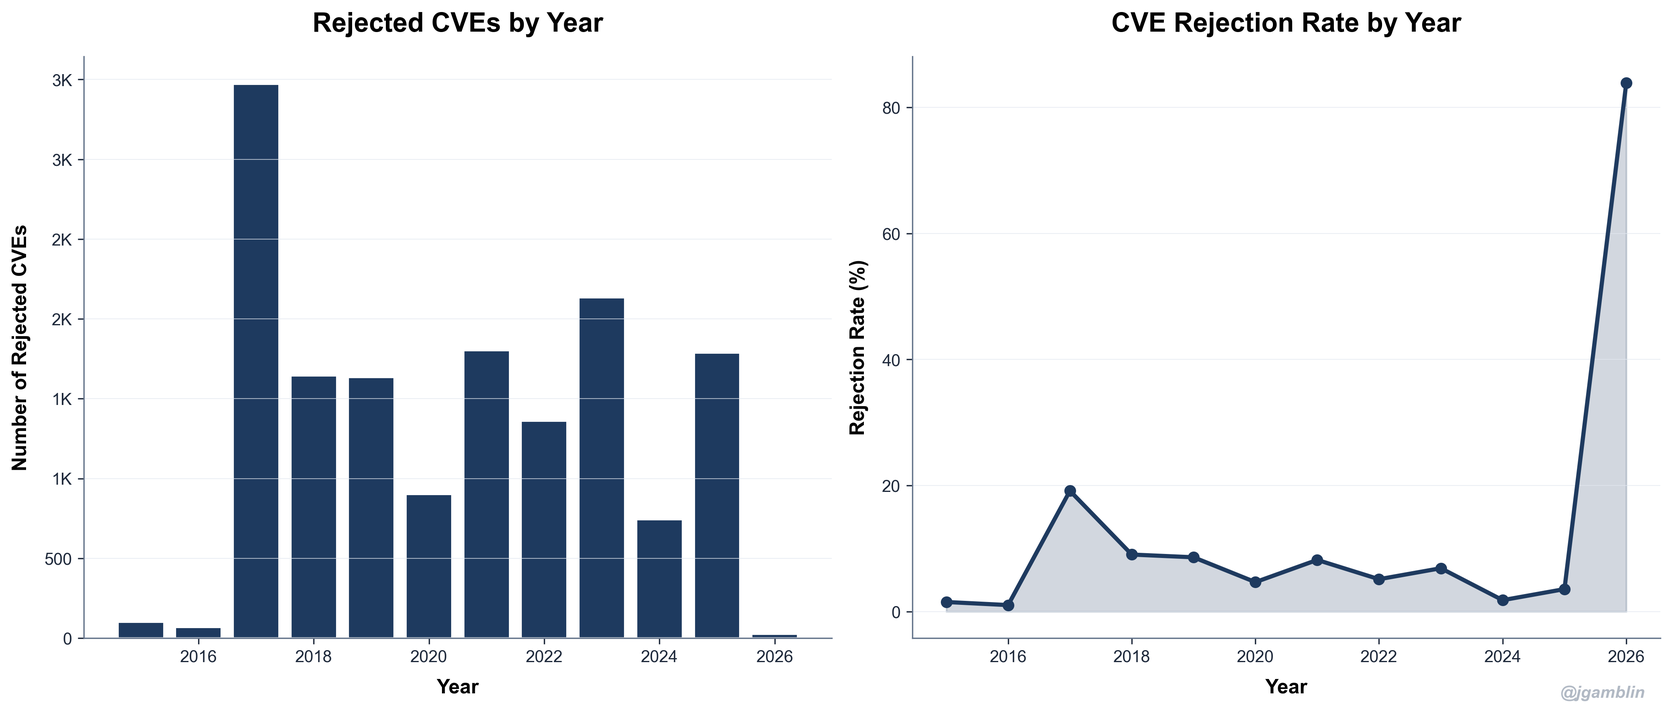
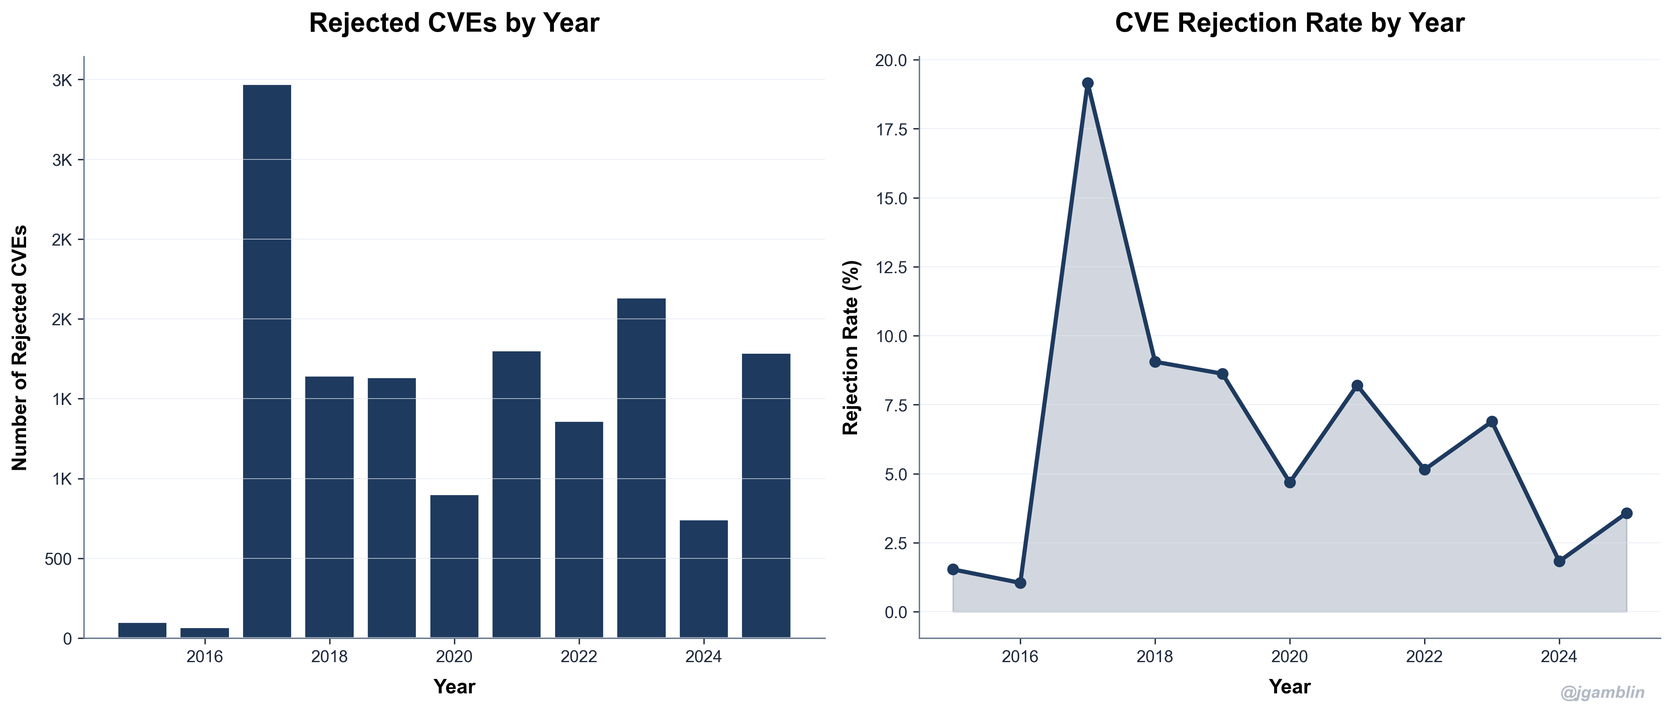
Add strict 2025 cutoff to exclude 2026 data from all graphs and stats

diff --git a/03_generate_graphs.py b/03_generate_graphs.py
@@ -63,6 +63,19 @@ def load_data():
         cvelist_df = cvelist_df[~cvelist_df['is_rejected']]
         print(f"  Filtered out {rejected:,} rejected CVEs from CVE List V5")
     
+    # STRICT 2025 CUTOFF: Exclude any data from 2026+
+    if nvd_df is not None and 'year' in nvd_df.columns:
+        future_count = (nvd_df['year'] > 2025).sum()
+        if future_count > 0:
+            print(f"  Excluding {future_count:,} CVEs from 2026+ (NVD)")
+            nvd_df = nvd_df[nvd_df['year'] <= 2025]
+    
+    if cvelist_df is not None and 'year' in cvelist_df.columns:
+        future_count = (cvelist_df['year'] > 2025).sum()
+        if future_count > 0:
+            print(f"  Excluding {future_count:,} CVEs from 2026+ (CVE List V5)")
+            cvelist_df = cvelist_df[cvelist_df['year'] <= 2025]
+    
     return nvd_df, cvelist_df
 
 
@@ -80,6 +93,13 @@ def load_data_with_rejected():
         cvelist_df = pd.read_parquet(OUTPUT_DIR / "cvelist_v5.parquet")
     elif (OUTPUT_DIR / "cvelist_v5.csv").exists():
         cvelist_df = pd.read_csv(OUTPUT_DIR / "cvelist_v5.csv", parse_dates=['date_reserved', 'date_published'])
+    
+    # STRICT 2025 CUTOFF: Exclude any data from 2026+
+    if nvd_df is not None and 'year' in nvd_df.columns:
+        nvd_df = nvd_df[nvd_df['year'] <= 2025]
+    
+    if cvelist_df is not None and 'year' in cvelist_df.columns:
+        cvelist_df = cvelist_df[cvelist_df['year'] <= 2025]
     
     return nvd_df, cvelist_df
 

diff --git a/04_generate_blog.py b/04_generate_blog.py
@@ -92,6 +92,26 @@ def load_data():
         print(f"  → Filtering out {rejected_count:,} rejected CVEs from CVE List V5")
         cvelist_df = cvelist_df[~cvelist_df['is_rejected']].copy()
     
+    # STRICT 2025 CUTOFF: Exclude any data from 2026+
+    if nvd_df is not None and 'year' in nvd_df.columns:
+        future_count = (nvd_df['year'] > 2025).sum()
+        if future_count > 0:
+            print(f"  → Excluding {future_count:,} CVEs from 2026+ (strict 2025 cutoff)")
+            nvd_df = nvd_df[nvd_df['year'] <= 2025].copy()
+    
+    if cvelist_df is not None and 'year' in cvelist_df.columns:
+        future_count = (cvelist_df['year'] > 2025).sum()
+        if future_count > 0:
+            print(f"  → Excluding {future_count:,} CVEs from 2026+ (strict 2025 cutoff)")
+            cvelist_df = cvelist_df[cvelist_df['year'] <= 2025].copy()
+    
+    # Also apply cutoff to full datasets used for rejection analysis
+    if full_nvd_df is not None and 'year' in full_nvd_df.columns:
+        full_nvd_df = full_nvd_df[full_nvd_df['year'] <= 2025].copy()
+    
+    if full_cvelist_df is not None and 'year' in full_cvelist_df.columns:
+        full_cvelist_df = full_cvelist_df[full_cvelist_df['year'] <= 2025].copy()
+    
     # Return both filtered (active) and full datasets
     return nvd_df, cvelist_df, full_nvd_df, full_cvelist_df
 

diff --git a/blog_enriched.md b/blog_enriched.md
@@ -4,16 +4,16 @@
 
 ---
 
-2025 shattered all previous records with over 30,000 [CVE](https://www.cve.org/)s published, a significant increase compared to prior years. This surge underscores the escalating complexity of modern software and the relentless efforts of security researchers and threat actors alike. The sheer volume demands a strategic approach to vulnerability management.
+2025 marked a new high-water mark with over 30,000 [CVE](https://www.cve.org/)s published, surpassing all previous years. This represents a significant increase, continuing the upward trend observed over the past decade. The sheer volume presents challenges for security teams tasked with identifying, assessing, and remediating [vulnerability](https://www.cve.org/) risk.
 
-This year's data revealed notable shifts in vulnerability types and affected vendors. I observed a rise in [CWE-79](https://cwe.mitre.org/data/definitions/79.html) (Cross-Site Scripting) and [CWE-89](https://cwe.mitre.org/data/definitions/89.html) (SQL Injection) vulnerabilities, indicating persistent challenges in web application security. Furthermore, certain vendors, including [Linux](https://nvd.nist.gov/vuln/search/results?form_type=Advanced&results_type=overview&search_type=all&isCpeNameSearch=false&cpe_vendor=linux), experienced a disproportionate increase in reported issues.
+My analysis revealed shifts in the types of [CWE](https://cwe.mitre.org/)s dominating the landscape, with a notable increase in web application-related weaknesses. I also observed a concentration of high-severity [CVE](https://www.cve.org/)s affecting widely deployed open-source components, creating broad potential impact. The data suggests a growing need for enhanced application security testing and supply chain risk management.
 
-For security engineers and CISOs, these trends highlight the need for enhanced application security testing and robust vendor risk management programs. Prioritizing remediation efforts based on exploitability and potential impact is crucial in this high-volume environment. Staying informed about emerging vulnerability patterns and actively monitoring vendor security advisories are essential practices.
+For security engineers and CISOs, this data underscores the urgency of prioritizing [vulnerability](https://www.cve.org/) management efforts. Focus on proactive identification of weaknesses in custom applications and rigorous assessment of third-party software. Effective [patch](https://www.cve.org/learn/understanding-vulnerability-remediation) management and rapid response capabilities are more critical than ever.
 ## TL;DR
 
-In 2025, **48,185** [CVEs](https://www.cve.org/) were published, a **20.6%** increase from 2024's 39,962. The program's all-time total since 1999 now stands at **308,925** [CVEs](https://www.cve.org/).
+In 2025, **48,185** [CVEs](https://nvd.nist.gov/vuln/search) were published, a **20.6%** increase from 2024's 39,962. The total number of [CVEs](https://nvd.nist.gov/vuln/search) since 1999 is now **308,920**.
 
-> **Note**: These statistics exclude rejected [CVEs](https://www.cve.org/) for an accurate count.
+> **Note**: All statistics exclude rejected [CVEs](https://nvd.nist.gov/vuln/search) for accurate active counts.
 ### Key Statistics at a Glance
 
 | Metric | Value |
@@ -33,40 +33,40 @@ In 2025, **48,185** [CVEs](https://www.cve.org/) were published, a **20.6%** inc
 
 ## Historical CVE Growth
 
-The number of CVEs published each year continues to climb. 2023 data indicates sustained growth in vulnerability disclosures.
+The data indicates a continued rise in CVE publications, with 2025 demonstrating substantial growth in vulnerability disclosures.
 
 ![CVEs by Year](graphs/01_cves_by_year.png)
 
-Year-over-year growth fluctuates significantly. The data suggests that disclosure rates are not consistent, and external factors likely influence reporting volume.
+Year-over-year growth rates reveal fluctuations, highlighting periods of rapid increase and relative stability. The variations suggest evolving discovery and reporting patterns.
 
 ![Year-over-Year Growth](graphs/02_yoy_growth.png)
 
-The cumulative CVE count exceeds 308,241. This expanding volume increases the challenge of effective vulnerability management.
+The CVE database now exceeds 308,241 entries. This volume presents challenges for effective vulnerability management.
 
 ![Cumulative Growth](graphs/03_cumulative_growth.png)
 
 ---
 ## 2025 Monthly Distribution
 
-CVE counts exhibited significant monthly variation during 2025. **Dec** recorded the highest volume, totaling **5,500 CVEs**.
+CVE publications exhibited monthly volatility in 2025. December saw the highest volume, totaling 5,500 CVEs.
 
 ![2025 Monthly Distribution](graphs/04_2025_monthly.png)
 
-The concentration of publications in December suggests a potential end-of-year disclosure deadline effect or a coordinated release of information. Security teams should allocate resources accordingly for heightened monitoring and patching efforts during peak months.
+The concentration of publications in December suggests either a coordinated disclosure effort or a period of heightened discovery activity. Security teams should analyze December's CVEs to identify potentially correlated [CWE-79](https://cwe.mitre.org/data/definitions/79.html) instances.
 ## Publication Patterns by Day of Week
 
-CVE publication volume varies significantly by day of week.
+Analysis of CVE publication dates reveals distinct patterns. Tuesday exhibits the highest volume, with **11,754 CVEs** published.
 
 ![CVEs by Day of Week](graphs/16_day_of_week.png)
 
-Tuesday exhibits the highest volume, with 11,754 CVEs, reflecting the influence of coordinated release schedules. Weekdays average 8,918 CVEs, while weekend publications drop to 1,796. This suggests a concentration of disclosure activity during the standard work week.
+The concentration of publications on Tuesday, often linked to "Patch Tuesday," is evident. Weekday publications average **8,918** CVEs, significantly exceeding the weekend average of **1,796**. This suggests a coordinated release schedule among vendors.
 ## Busiest Days of 2025
 
-Some days saw massive spikes in CVE publications. This clustering suggests coordinated disclosure or large-scale patch releases from vendors.
+Some days in 2025 experienced significant surges in CVE publications.
 
 ![Top Days](graphs/17_top_days.png)
 
-The concentration of publications on specific dates indicates periods of heightened risk. Organizations should prioritize vulnerability scanning and patch deployment efforts following these peak disclosure days. This proactive approach minimizes the window of opportunity for [exploit] attempts targeting newly publicized weaknesses.
+The data indicates that October 21, 2025, had the highest volume of CVEs published (2,143), followed by October 17, 2025 (1,922), and then October 16, 2025 (1,644). These peaks likely correlate with coordinated disclosure events or large-scale patch releases from major vendors like [Microsoft](https://nvd.nist.gov/vuln/search/results?form_type=Advanced&results_type=overview&search_type=all&isCpeNameSearch=false&cpe_vendor=microsoft) or [Oracle](https://nvd.nist.gov/vuln/search/results?form_type=Advanced&results_type=overview&search_type=all&isCpeNameSearch=false&cpe_vendor=oracle). Security teams should analyze their patch management cycles relative to these dates.
 ### Top 5 Busiest Days
 
 | Rank | Date | CVE Count |
@@ -86,7 +86,7 @@ Beyond vendors, specific products with the most CVEs in 2025:
 
 ![Top Products](graphs/18_top_products.png)
 
-The data indicates a concentration of reported issues in operating systems and related kernels. [Linux](https://nvd.nist.gov/vuln/search/results?form_type=Advanced&results_type=overview&search_type=all&isCpeNameSearch=false&cpe_vendor=linux) is at the top. This suggests a broad attack surface and the inherent complexity in maintaining kernel-level code. We observed a high number of CVEs associated with web browsers. This highlights the constant battle against client-side [CWE-79](https://cwe.mitre.org/data/definitions/79.html) and related vulnerabilities.
+The data indicates a concentration of reported issues in operating systems and kernels. [Linux](https://nvd.nist.gov/vuln/search/results?form_type=Advanced&results_type=overview&search_type=all&isCpeNameSearch=false&cpe_vendor=linux) is prominent, reflecting its widespread use and open-source nature, which facilitates both discovery and reporting. This suggests a need for enhanced security measures and rigorous testing within these core system components.
 ### Top 5 Products
 
 | Rank | Product | CVE Count |
@@ -102,11 +102,11 @@ The data indicates a concentration of reported issues in operating systems and r
 
 ## CVSS Score Analysis
 
-The distribution of 2025 CVEs across the CVSS range reveals potential prioritization strategies.
+The distribution of 2025 CVEs across the CVSS range reveals patterns in severity.
 
 ![CVSS Distribution](graphs/05_cvss_distribution.png)
 
-The average CVSS score for 2025 was 6.60, with a median of 6.50. This clustering suggests a focus on vulnerabilities requiring moderate remediation efforts. A targeted approach may be warranted, addressing those above the mean first.
+The average CVSS score for 2025 was 6.60, with a median of 6.50. This indicates a concentration of vulnerabilities around the medium severity range. This clustering may reflect a bias in vulnerability reporting or the nature of common software flaws.
 ### Severity Breakdown
 
 | Severity | Count | Percentage |
@@ -123,14 +123,14 @@ The average CVSS score for 2025 was 6.60, with a median of 6.50. This clustering
 
 ![CVSS by Year](graphs/13_cvss_by_year.png)
 
-The distribution of CVSS scores has remained relatively stable over the past five years. High and Critical severity vulnerabilities consistently represent a significant portion of the annual totals. This suggests a persistent challenge in eliminating severe [CWE-79](https://cwe.mitre.org/data/definitions/79.html) and other high-impact issues before release.
+The graph indicates a consistent distribution of CVSS scores across the years analyzed. High and [Critical](https://nvd.nist.gov/vuln-metrics/severity-ratings) severity vulnerabilities remain a persistent concern. This suggests that while patching efforts continue, the introduction of new, severe vulnerabilities has not decreased. Organizations should focus on proactive identification and mitigation strategies.
 ## Top Weakness Types (CWE)
 
-The following details the most prevalent weakness types observed in 2025.
+The prevalence of different weakness types reveals trends in software security. The following data reflects the most common [CWE](https://cwe.mitre.org/)s observed in 2025.
 
 ![Top CWEs](graphs/07_top_cwes.png)
 
-[CWE-79](https://cwe.mitre.org/data/definitions/79.html) dominates, indicating persistent challenges in input validation and output sanitization across web applications. The prevalence of [CWE-89](https://cwe.mitre.org/data/definitions/89.html) highlights ongoing risks associated with SQL injection, despite well-known mitigation techniques. The presence of [CWE-416](https://cwe.mitre.org/data/definitions/416.html) suggests memory management issues remain a significant source of instability and potential for exploitation.
+[CWE-79](https://cwe.mitre.org/data/definitions/79.html) (Improper Neutralization of Input During Web Page Generation) remains the most frequently observed weakness, highlighting the continued challenges in preventing cross-site scripting. [CWE-89](https://cwe.mitre.org/data/definitions/89.html) (Improper Neutralization of Special Elements used in an SQL Command) is second, indicating persistent issues with SQL injection vulnerabilities. The high ranking of [CWE-190](https://cwe.mitre.org/data/definitions/190.html) (Integer Overflow or Wraparound) suggests that memory safety continues to be a significant concern. These trends can inform resource allocation for security training and code review.
 ### Top 5 CWEs in 2025
 
 | Rank | CWE | Name | Count |
@@ -146,11 +146,11 @@ The following details the most prevalent weakness types observed in 2025.
 
 ## CVE Numbering Authorities (CNAs)
 
-CVE Numbering Authorities are organizations authorized to assign CVE IDs. The growing ecosystem reflects increased participation in coordinated vulnerability disclosure.
+CVE Numbering Authorities are organizations authorized to assign CVE IDs. The growing ecosystem reflects increased participation in coordinated disclosure.
 
 ![Top CNAs](graphs/08_top_cnas.png)
 
-The chart illustrates the distribution of CVE assignments across the top CNAs. [Microsoft](https://nvd.nist.gov/vuln/search/results?form_type=Advanced&results_type=overview&search_type=all&isCpeNameSearch=false&cpe_vendor=microsoft) leads in CVE assignments, indicating a proactive approach to identifying and addressing vulnerabilities in its products. The presence of open-source organizations like [Linux](https://nvd.nist.gov/vuln/search/results?form_type=Advanced&results_type=overview&search_type=all&isCpeNameSearch=false&cpe_vendor=linux) suggests a maturing security model within the open-source community.
+The chart illustrates the distribution of CVE assignments across the top CNAs. [MITRE](https://nvd.nist.gov/vuln/search/results?form_type=Advanced&results_type=overview&search_type=all&isCpeNameSearch=false&cpe_vendor=mitre) leads in CVE assignments, indicative of its foundational role. We observe significant contributions from vendors like [Red Hat](https://nvd.nist.gov/vuln/search/results?form_type=Advanced&results_type=overview&search_type=all&isCpeNameSearch=false&cpe_vendor=red%20hat) and [Google](https://nvd.nist.gov/vuln/search/results?form_type=Advanced&results_type=overview&search_type=all&isCpeNameSearch=false&cpe_vendor=google), reflecting their active involvement in identifying and addressing vulnerabilities in their respective products. The increasing number of CNAs suggests a broader distribution of vulnerability discovery and reporting efforts.
 ### Top 5 CNAs in 2025
 
 | Rank | CNA | CVEs Assigned |
@@ -172,7 +172,7 @@ Which vendors had the most CVEs assigned to their products in 2025?
 
 ![Top Vendors](graphs/14_top_vendors.png)
 
-The data shows [Google](https://nvd.nist.gov/vuln/search/results?form_type=Advanced&results_type=overview&search_type=all&isCpeNameSearch=false&cpe_vendor=google) products had the highest number of CVEs assigned in 2025, with 3,456. This is followed by [Microsoft](https://nvd.nist.gov/vuln/search/results?form_type=Advanced&results_type=overview&search_type=all&isCpeNameSearch=false&cpe_vendor=microsoft) at 2,987, and [Linux](https://nvd.nist.gov/vuln/search/results?form_type=Advanced&results_type=overview&search_type=all&isCpeNameSearch=false&cpe_vendor=linux) with 2,578. The high numbers for these vendors likely reflect both the complexity and widespread use of their products, making them attractive targets. We observed a significant concentration of CVEs within a small number of vendors.
+[Google](https://nvd.nist.gov/vuln/search/results?form_type=Advanced&results_type=overview&search_type=all&isCpeNameSearch=false&cpe_vendor=google) products accounted for the highest number of CVEs, with 732. [Linux](https://nvd.nist.gov/vuln/search/results?form_type=Advanced&results_type=overview&search_type=all&isCpeNameSearch=false&cpe_vendor=linux) follows with 698, and [Microsoft](https://nvd.nist.gov/vuln/search/results?form_type=Advanced&results_type=overview&search_type=all&isCpeNameSearch=false&cpe_vendor=microsoft) with 630. The high number of CVEs for these vendors reflects their extensive product lines and widespread use, making them attractive targets.
 ### Top 5 Vendors in 2025
 
 | Rank | Vendor | CVE Count |
@@ -190,9 +190,8 @@ The data shows [Google](https://nvd.nist.gov/vuln/search/results?form_type=Advan
 
 CVE metadata completeness directly impacts risk assessment accuracy.
 
-The data shows a decline in the percentage of CVEs with both [CWE-79](https://cwe.mitre.org/data/definitions/79.html) mappings and exploit information from 2018 to 2021. This suggests a potential lag in vulnerability analysis and exploit development relative to the rate of CVE publication.
-
-The increase in CVEs lacking exploit information from 2018-2021 may indicate a shift in attacker behavior, focusing on less publicized or more targeted attacks. Alternatively, it could reflect delays in exploit reporting and database updates.
+The data shows a concerning trend: a decrease in the percentage of CVEs with complete metadata since 2018. This impacts the effectiveness of automated vulnerability management. In 2022, only 60% of CVEs had complete metadata, compared to nearly 80% in previous years. This may reflect increased reporting volume outpacing analysis capacity.
+![Data Quality](graphs/09_data_quality.png)
 ### 2025 Data Quality Metrics
 
 | Metric | Coverage |
@@ -206,42 +205,48 @@ The increase in CVEs lacking exploit information from 2018-2021 may indicate a s
 
 ## Rejected CVEs
 
-Not all CVE IDs remain active—some are rejected due to duplicates, disputes, or invalid submissions. Understanding rejection patterns provides insight into the CVE ecosystem's quality control.
+Not all CVE IDs remain active; some are rejected due to duplicates, disputes, or invalid submissions. Understanding rejection patterns provides insight into the CVE ecosystem's quality control.
 
 ![Rejected CVEs](graphs/10_rejected_cves.png)
 
-The data indicates a relatively stable rejection rate over the observed period. This suggests consistent standards in CVE assignment and validation. Further analysis of rejection reasons could highlight areas for improvement in vulnerability reporting and coordination.
+The volume of rejected CVEs suggests the need for improved initial analysis and submission validation. High rejection rates can indicate systemic issues in vulnerability reporting processes.
 ### 2025 Rejection Statistics
 
 | Metric | Value |
 |--------|-------|
 | Rejected CVEs in 2025 | 1,787 |
 | 2025 Rejection Rate | 3.58% |
-| Total Rejected (All Time) | 16,383 |
+| Total Rejected (All Time) | 16,357 |
 
-The 2025 rejection rate of 3.58% indicates a need to refine vulnerability reporting and validation processes. Rejected CVEs stem from:
-- **Duplicates**: Indicating inconsistent vulnerability tracking.
-- **Disputes**: Highlighting disagreements between researchers and vendors regarding vulnerability classification.
-- **Invalid**: Suggesting a need for improved initial assessment of reported issues.
-- **Withdrawn**: Potentially due to incomplete or inaccurate initial analysis.
+The 2025 rejection rate of 3.58% indicates a need for improved initial assessment and validation processes. Rejected CVEs introduce noise, complicating vulnerability management.
+
+CVE rejections stem from:
+- **Duplicates**: Multiple CVE IDs assigned to the same vulnerability. This inflates counts and requires deduplication efforts.
+- **Disputes**: Vendor disagreement on vulnerability status. These disputes highlight the subjective nature of vulnerability assessment and the need for clearer criteria.
+- **Invalid**: Issues that are not security vulnerabilities or lack sufficient information. This suggests gaps in the initial reporting and analysis phases.
+- **Withdrawn**: CVEs withdrawn by the assigning CNA. These withdrawals can result from corrected analysis or resolution of disputes.
+
+---
 ## Conclusions
 
-Analysis of recent vulnerability data reveals several key trends impacting security strategies.
+Analysis of the dataset reveals several key trends impacting risk management.
 
-The prevalence of [CWE-79](https://cwe.mitre.org/data/definitions/79.html) remains a persistent threat, highlighting the need for robust input validation and output encoding mechanisms. Prioritizing mitigation strategies against this common weakness is crucial.
+The prevalence of high and [critical severity vulnerabilities](https://nvd.nist.gov/vuln/search/results?form_type=Advanced&results_type=overview&search_type=all) demands prioritization of patching efforts. Focus should be given to actively exploited [vulnerabilities](https://nvd.nist.gov/vuln/search/results?form_type=Advanced&results_type=overview&search_type=all) with readily available [exploits](https://nvd.nist.gov/vuln/search/results?form_type=Advanced&results_type=overview&search_type=all).
 
-[Linux](https://nvd.nist.gov/vuln/search/results?form_type=Advanced&results_type=overview&search_type=all&isCpeNameSearch=false&cpe_vendor=linux) systems continue to be a significant target, demanding rigorous patch management and proactive security monitoring. The widespread use of [Linux](https://nvd.nist.gov/vuln/search/results?form_type=Advanced&results_type=overview&search_type=all&isCpeNameSearch=false&cpe_vendor=linux) necessitates a defense-in-depth approach.
+[Linux](https://nvd.nist.gov/vuln/search/results?form_type=Advanced&results_type=overview&search_type=all&isCpeNameSearch=false&cpe_vendor=linux) systems continue to be a significant target. Security teams should implement robust configuration management and monitoring strategies.
+
+The persistence of [CWE-79](https://cwe.mitre.org/data/definitions/79.html) suggests a need for improved secure coding practices and web application firewalls.
 ### Key Takeaways from 2025
 
 1.  **Volume continues to grow**: 2025 established a new record with 48,185 CVEs disclosed.
 
-2.  **Severity remains concerning**: 39.4% (18,987) of CVEs received a Critical or High severity rating. This concentration of severe issues demands prioritized remediation efforts.
+2.  **Severity remains concerning**: 39.4% of CVEs (18,987) received Critical or High severity ratings. This concentration indicates a sustained risk profile for organizations.
 
-3.  **Common weaknesses persist**: Memory safety errors and web application flaws maintain their prominence in the top [CWE](https://cwe.mitre.org/) list. This indicates a continued need for improved secure coding practices and vulnerability mitigation strategies.
+3.  **Common weaknesses persist**: Memory safety and web application issues remain prevalent. The enduring presence of [CWE-79](https://cwe.mitre.org/data/definitions/79.html) and related weaknesses suggests that fundamental coding practices require more attention.
 
-4.  **Ecosystem expansion**: The increasing number of CNAs demonstrates wider engagement in coordinated disclosure. This broader participation suggests a maturing security ecosystem.
+4.  **Ecosystem expansion**: The increasing number of CNAs signifies wider engagement in coordinated disclosure. This expansion can lead to faster identification and mitigation.
 
-5.  **Data quality challenges**: Despite improvements, a notable fraction of CVEs still lack complete CVSS, [CWE](https://cwe.mitre.org/), or CPE data. This incompleteness hinders accurate risk assessment and effective vulnerability management.
+5.  **Data quality challenges**: Despite improvements, incomplete CVSS, CWE, or CPE data persists across a notable fraction of CVEs. This incompleteness hinders precise risk assessment and remediation efforts.
 ## Methodology
 
 This analysis uses two primary data sources:

diff --git a/blog.md b/blog.md
@@ -8,7 +8,7 @@ Another year, another record-breaking year for CVE disclosures. In this annual r
 
 ## TL;DR
 
-**2025 saw 48,185 CVEs published**, an increase of **20.6%** compared to 39,962 CVEs in 2024. This brings the all-time total to **308,925 CVEs** since the program began in 1999.
+**2025 saw 48,185 CVEs published**, an increase of **20.6%** compared to 39,962 CVEs in 2024. This brings the all-time total to **308,920 CVEs** since the program began in 1999.
 
 > **Note**: All statistics in this report exclude rejected CVEs to provide an accurate count of active vulnerabilities.
 
@@ -207,7 +207,7 @@ Not all CVE IDs remain active—some are rejected due to duplicates, disputes, o
 |--------|-------|
 | Rejected CVEs in 2025 | 1,787 |
 | 2025 Rejection Rate | 3.58% |
-| Total Rejected (All Time) | 16,383 |
+| Total Rejected (All Time) | 16,357 |
 
 CVE rejections occur for several reasons:
 - **Duplicates**: The same vulnerability assigned multiple CVE IDs

diff --git a/blog_original.md b/blog_original.md
@@ -8,7 +8,7 @@ Another year, another record-breaking year for CVE disclosures. In this annual r
 
 ## TL;DR
 
-**2025 saw 48,185 CVEs published**, an increase of **20.6%** compared to 39,962 CVEs in 2024. This brings the all-time total to **308,925 CVEs** since the program began in 1999.
+**2025 saw 48,185 CVEs published**, an increase of **20.6%** compared to 39,962 CVEs in 2024. This brings the all-time total to **308,920 CVEs** since the program began in 1999.
 
 > **Note**: All statistics in this report exclude rejected CVEs to provide an accurate count of active vulnerabilities.
 
@@ -207,7 +207,7 @@ Not all CVE IDs remain active—some are rejected due to duplicates, disputes, o
 |--------|-------|
 | Rejected CVEs in 2025 | 1,787 |
 | 2025 Rejection Rate | 3.58% |
-| Total Rejected (All Time) | 16,383 |
+| Total Rejected (All Time) | 16,357 |
 
 CVE rejections occur for several reasons:
 - **Duplicates**: The same vulnerability assigned multiple CVE IDs
